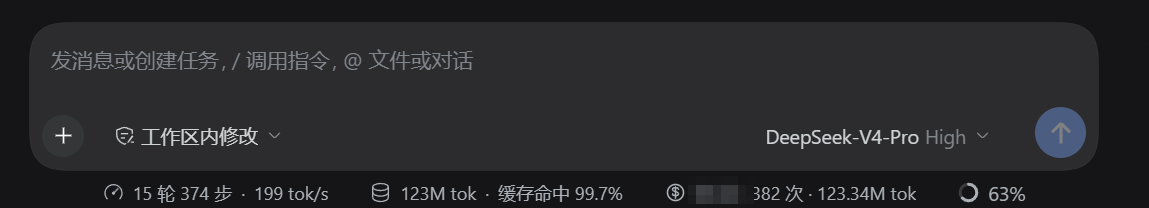
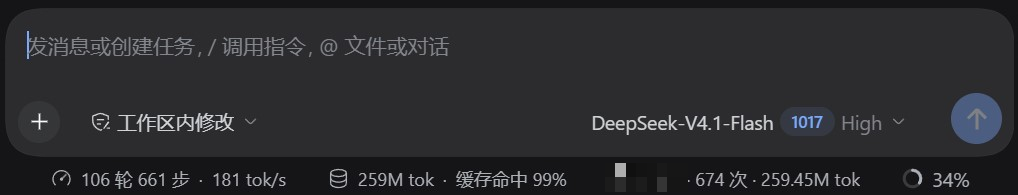
docs: replace screenshots and demo with the 0.2.0 UI, masked amounts and timestamps
- assets: new composer pill, dialog and 10s demo GIF (720x442, 82 frames)
- assets: mosaic every amount, balance and timestamp; keep tokens, requests and prices
- docs: dialog description matches the shot, note that timestamps are masked too
- chore: 0.2.1

diff --git a/README.md b/README.md
@@ -46,12 +46,12 @@ dsh plugin --profile web add @vacum972/dsh-usage-billing
 
 ## 界面预览
 
-点开后的详情弹窗：消费金额、剩余金额、请求次数、Tokens 总计、平均成本、高峰/空闲时段消费拆分、
-本会话避开高峰的节省额，以及当前时段生效的官方价目：
+点开后的详情弹窗：消费金额、剩余金额、请求次数、Tokens 总计、平均成本、高峰/空闲时段消费拆分，
+以及当前时段生效的官方价目与空闲倒计时：
 
 ![用量与计费详情弹窗](https://raw.githubusercontent.com/vacum972/dsh-usage-billing/main/assets/screenshots/02-dialog.png)
 
-> 截图为隐私脱敏示意：**金额与余额已打码（马赛克）**，请求次数、Tokens 与官方价目为真实数据。
+> 截图为隐私脱敏示意：**金额、余额与时间戳已打码（马赛克）**，请求次数、Tokens 与官方价目为真实数据。
 
 ## 时段与价目（确保准确）
 

diff --git a/CHANGELOG.md b/CHANGELOG.md
@@ -1,5 +1,17 @@
 # 变更日志
 
+## [0.2.1] - 2026-11-15
+
+### 变更
+
+- 三张界面素材按 0.2.0 的实际界面重新截取：输入框胶囊、详情弹窗、操作录屏（GIF）。
+- 素材中**金额、余额与时间戳全部马赛克打码**；请求次数、Tokens、峰谷价目与空闲倒计时保持真实。
+
+### 修复
+
+- 倒计时改窄：只在高峰时显示在胶囊上；已空闲时收进弹窗的时段徽标，避免胶囊拥挤。
+- 胶囊旁的数字时钟改为持续刷新（关闭弹窗 60 秒、打开 15 秒），不会再停在挂载时刻。
+
 ## [0.2.0] - 2026-11-15
 
 ### 新增
